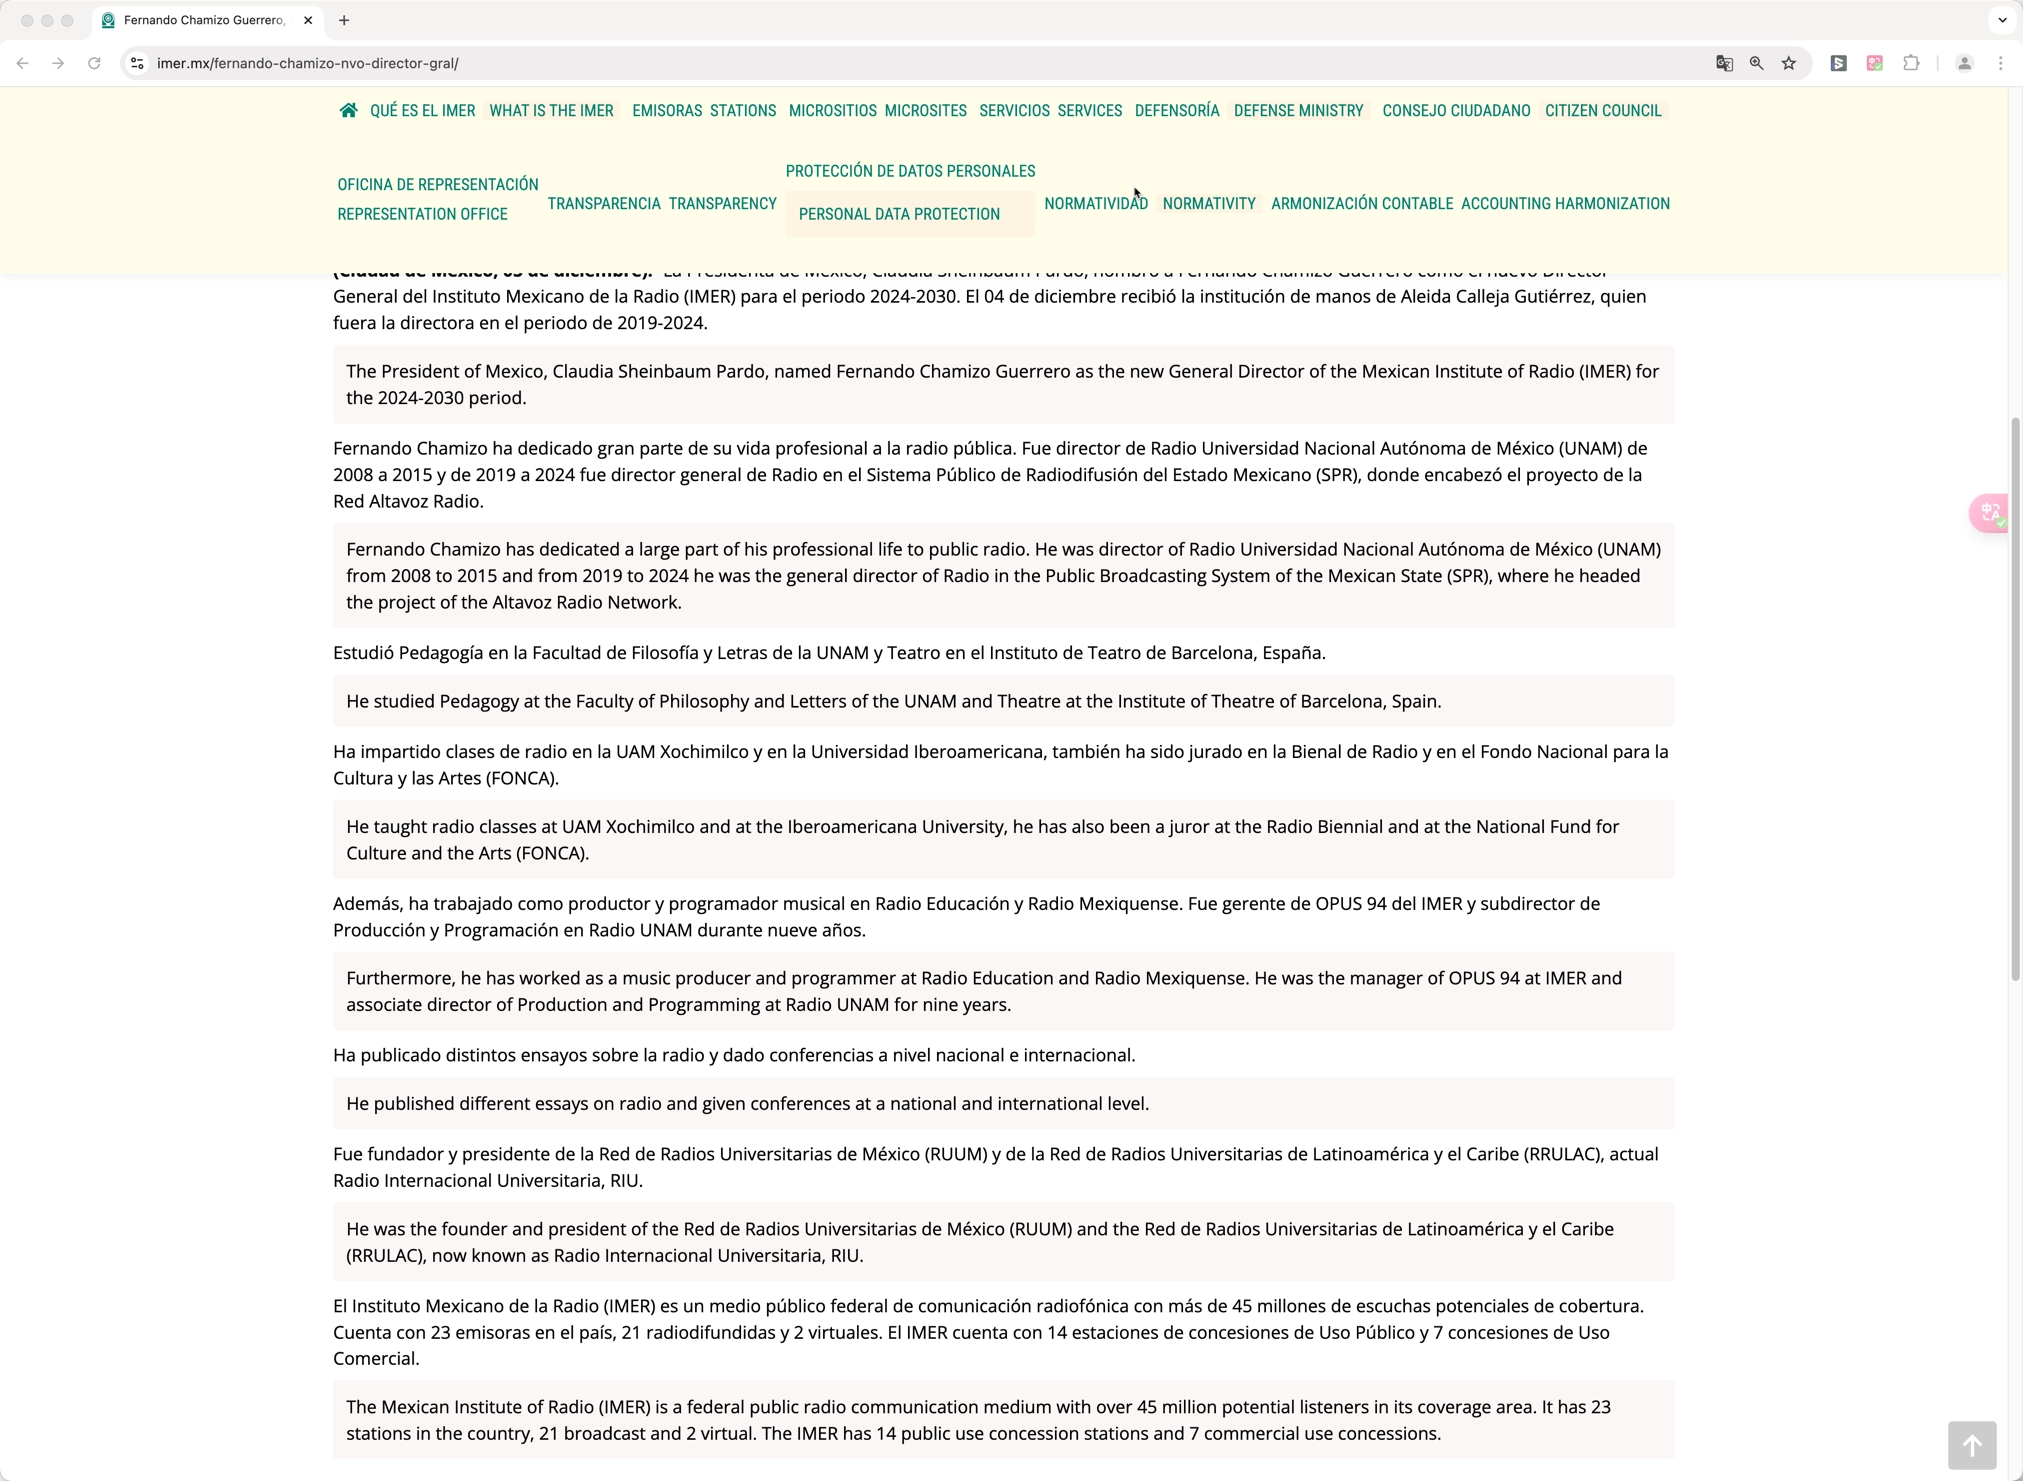
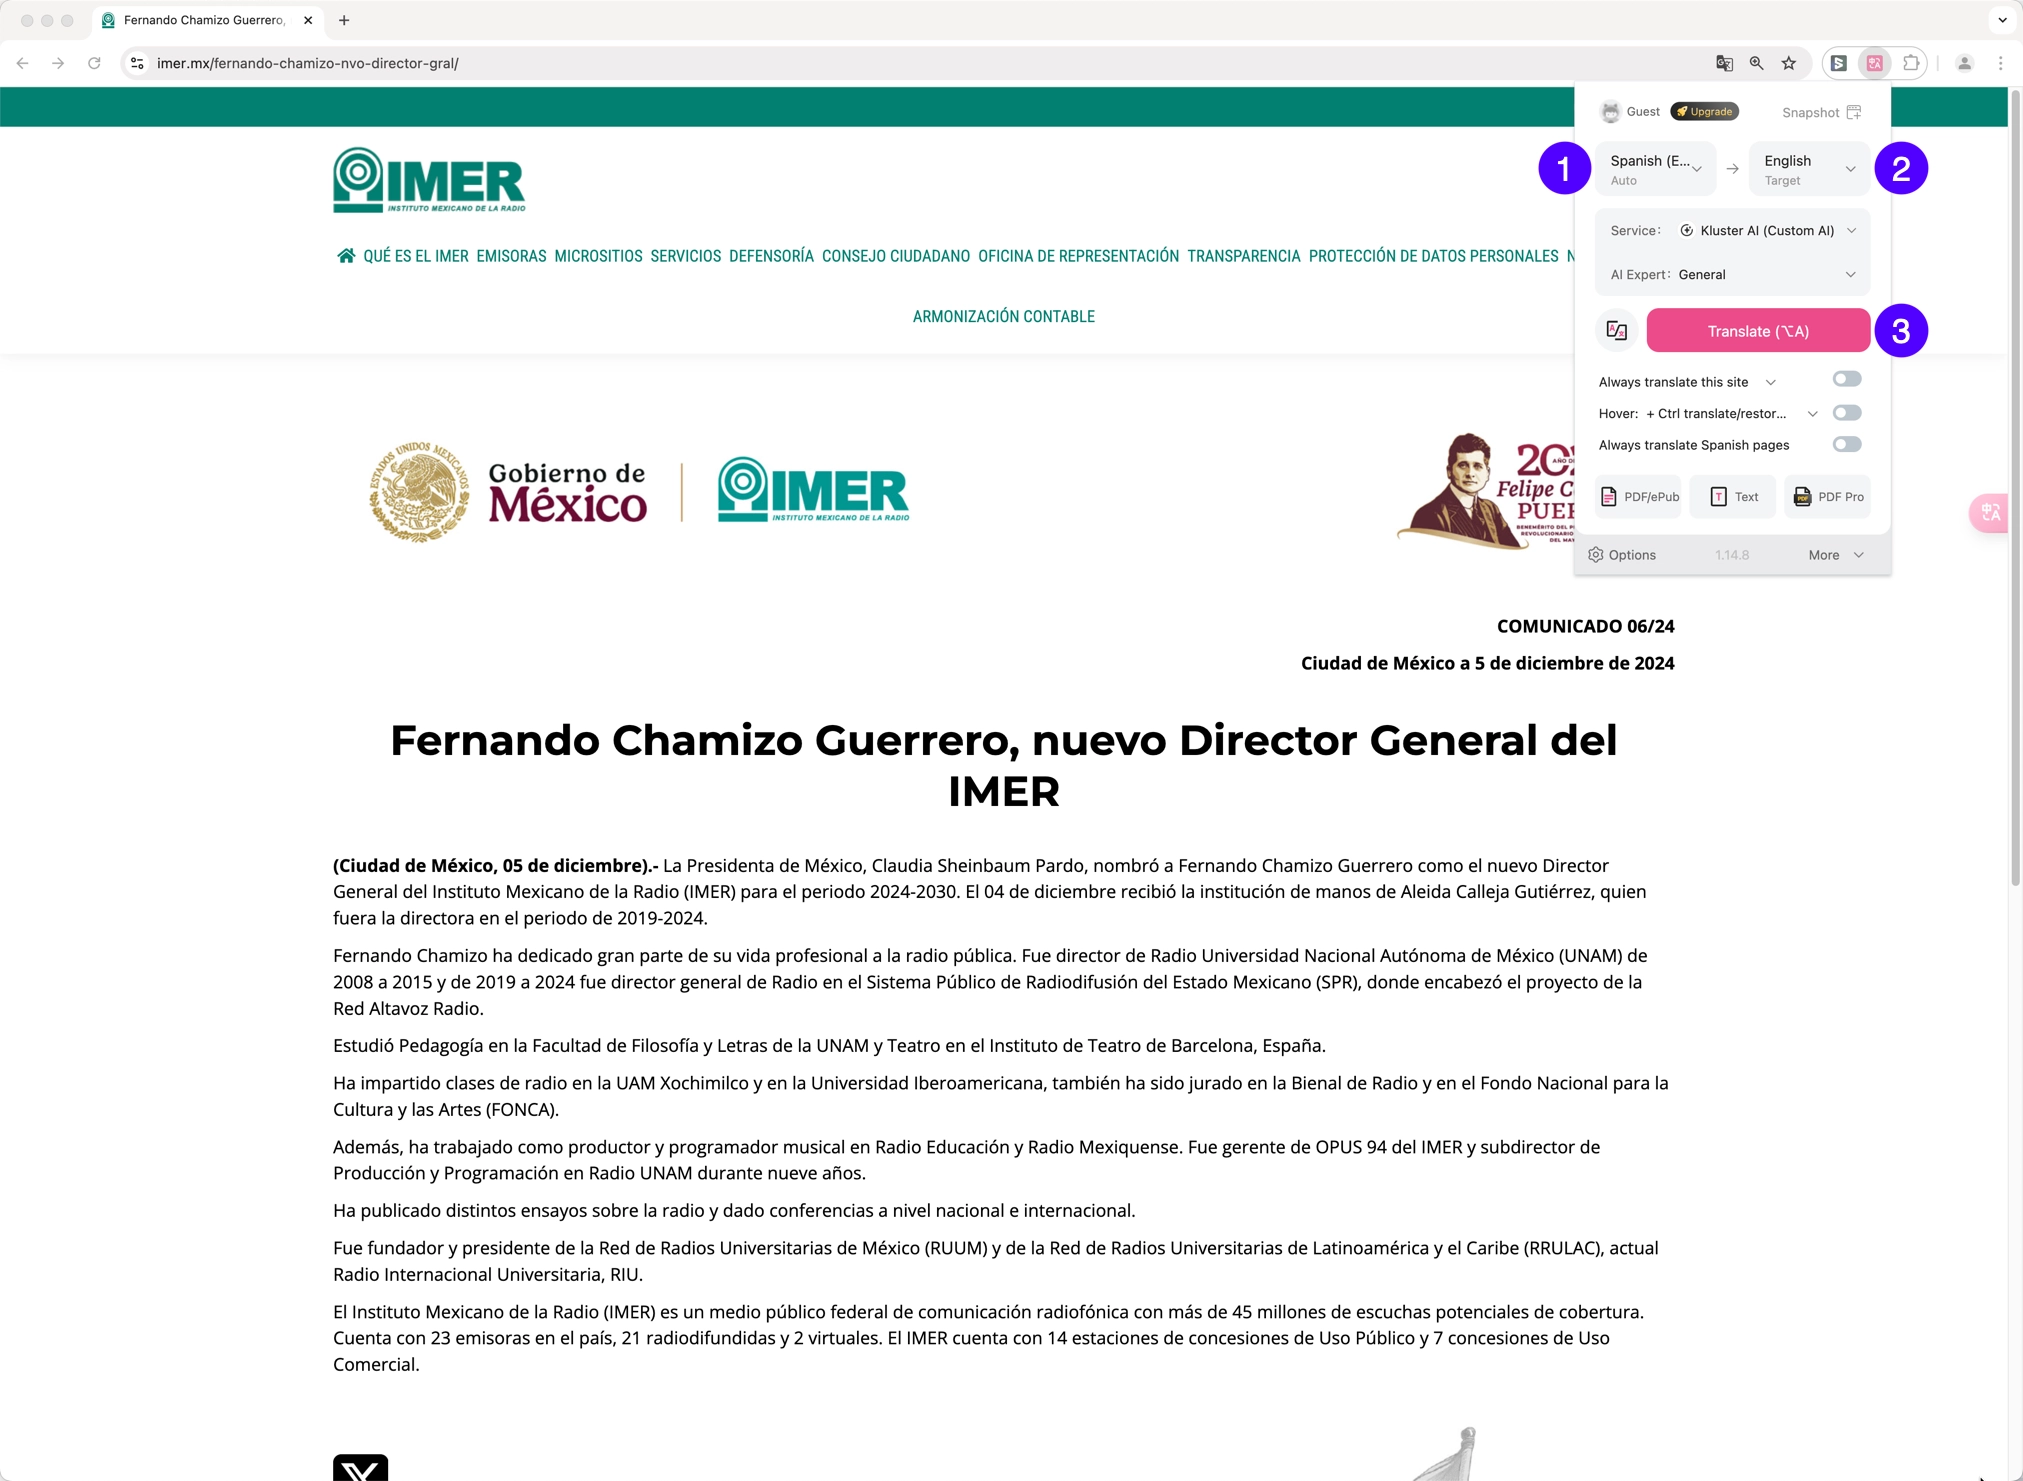
revise images and tutorial

diff --git a/get-started/integrations/immersive-translate.md b/get-started/integrations/immersive-translate.md
@@ -19,9 +19,16 @@ Before starting, ensure you have the following:
 
 ## Configure Immersive Translate to use the kluster.ai API
 
-First, open the Immersive Translate extension and click on the **Options** button in the lower left corner of the extension. By default, the **General** section will appear first, where you'll configure the necessary settings.
+First, open the Immersive Translate extension and click on the **Options** button in the lower left corner of the extension.
 
 ![](/images/get-started/integrations/immersivetranslate/immersive-1.webp)
+
+Then, take the following steps:
+
+1. Navigate to **Translatation Services**
+2. Press **Add OpenAI Compatible Service**
+
+![](/images/get-started/integrations/immersivetranslate/immersive-2.webp)
 
 Take the following steps to configure the kluster.ai API as a custom translation service for Immersive Translate:
 
